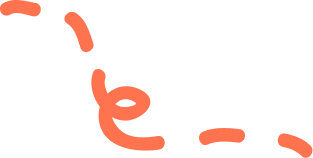
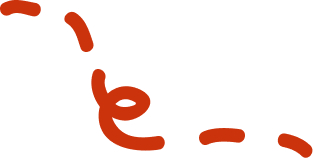
image split and slight animation

diff --git a/my-portfolio/src/dist/scss/Form.scss b/my-portfolio/src/dist/scss/Form.scss
@@ -2,7 +2,10 @@
 @import url("https://fonts.googleapis.com/css2?family=Inter:wght@200;300;400;500&display=swap");
 @import url('https://fonts.googleapis.com/css2?family=Antonio:wght@100;200;300;400;600;700&display=swap');
 
-
+.plane-container{
+display: flex;
+flex-direction: column;
+}
 .form-img{
       background-position: center;
     background-repeat: no-repeat;
@@ -37,11 +40,24 @@ margin-bottom: 2rem;
     flex-direction: column;
     align-content: center;
         align-items: center;;}
-
-    .message-plane{
-      margin-bottom: 3rem;
+.trail{
+        margin-bottom: 1rem;
    margin-top: 3rem;
-      width: 10rem;
+      width: 4rem;
+          transform: rotate(20deg);
+}
+    .message-plane{
+    margin-bottom: 2rem;
+    margin-left: 4rem;
+    width: 4rem;
+    animation-name: wave-animation;  /* Refers to the name of your @keyframes element below */
+  animation-duration: 2.5s;        /* Change to speed up or slow down */
+  animation-iteration-count: infinite;  /* Never stop waving :) */
+  transform-origin: 70% 70%;       /* Pivot around the bottom-left palm */
+  display: inline-block;
+    } .message-plane::after{
+      content: "click me";
+
     }
 .form {
 
@@ -58,7 +74,7 @@ margin-bottom: 2rem;
     font-size: 13px;
     line-height: 1.3rem;
     color: $text;
-    padding-right: 15.2rem;
+    padding-right: 14.2rem;
     margin-bottom: 8px;
 }
 .message {
@@ -67,12 +83,12 @@ margin-bottom: 2rem;
     font-size: 13px;
     line-height: 1.3rem;
     color: $text;
-    padding-right: 14.2rem;
+    padding-right: 13.2rem;
     margin-bottom: 8px;
 }
 .input1 {
   height: 2rem;
-  width: 18rem;
+  width: 16rem;
   opacity: 0.9;
   border: 1px solid $specialtext;
    border-radius: 12px;
@@ -83,7 +99,7 @@ margin-bottom: 2rem;
 .input2 {
   opacity: 0.9;
   height: 8rem;
-  width: 18rem;
+  width: 16rem;
  border: 1px solid $specialtext;
    border-radius: 12px;
     background: #cb330c17;

diff --git a/my-portfolio/src/components/paperPlane.js b/my-portfolio/src/components/paperPlane.js
@@ -1,19 +1,26 @@
-import paperplane from "../assets/Images/paperplanewithtrail.jpg";
+import paperplane from "../assets/Images/planejpg.jpg";
+import Trail from "../assets/Images/trail.jpg";
 
  const PaperPlane = (props) => {
 
 
  
   return (
-    <>
+    <div className="plane-container">
       {" "}
+      <img
+        className="trail"
+        alt="paper plane"
+        src={Trail}
+        onClick={props}
+      />
       <img
         className="message-plane"
         alt="paper plane"
         src={paperplane}
         onClick={props}
       />
-    </>
+    </div>
   );
 }
 

diff --git a/my-portfolio/src/components/Projects/DevelopmentProject.js b/my-portfolio/src/components/Projects/DevelopmentProject.js
@@ -60,7 +60,7 @@ const item = {
         className="Modal.show"
         onClick={() => setDisplayModal(!displayModal)}
       >
-        {/* <div class="modal-dialog">
+        <div class="modal-dialog">
           <p className="project-des">{props.projectDescription}</p>
           <div className="tag-container">
             <p className="tags">{props.tag1}</p>
@@ -88,7 +88,7 @@ const item = {
               </a>
             </div>
           </div>
-        </div>  */}
+        </div> 
         
       </motion.div>
     </motion.div>

diff --git a/my-portfolio/src/Sections/ContactSection.js b/my-portfolio/src/Sections/ContactSection.js
@@ -46,8 +46,8 @@ const [message, setMessage ] = useState(false);
       <div className="formpage" id="form" onClick={toggleMessage}>
         <h2 className="heading5">Contact me</h2>
         <p className="subheading5">
-          Click on the Paper Plane to send me a message, Looking foward to
-          hearing from you all!
+          Looking to work together? have a project in mind, go ahead and shoot me a message! 
+          Looking forward to hearing from you all!
         </p>
 
         {message ? <MyForm /> : <PaperPlane />}

diff --git a/my-portfolio/src/components/AboutMeNavigation.jsx b/my-portfolio/src/components/AboutMeNavigation.jsx
@@ -65,10 +65,7 @@ const AboutMeNavigation = () => {
         About Me
       </motion.h1>
 
-      <motion.ul
-        whileHover={{  color: "#cb330c" }}
-        className="aboutme-points"
-      >
+      <motion.ul whileHover={{ color: "#cb330c" }} className="aboutme-points">
         <Link to="/">
           {" "}
           <motion.il
@@ -95,7 +92,6 @@ const AboutMeNavigation = () => {
             Skill
           </motion.il>
         </Link>
-
       </motion.ul>
     </motion.div>
   );

diff --git a/my-portfolio/src/dist/scss/LandingSection.scss b/my-portfolio/src/dist/scss/LandingSection.scss
@@ -101,7 +101,7 @@ padding-left: 1rem;
 
 .hand{
 animation-name: wave-animation;  /* Refers to the name of your @keyframes element below */
-  animation-duration: 2.5s;        /* Change to speed up or slow down */
+  animation-duration: 5s;        /* Change to speed up or slow down */
   animation-iteration-count: infinite;  /* Never stop waving :) */
   transform-origin: 70% 70%;       /* Pivot around the bottom-left palm */
   display: inline-block;

diff --git a/my-portfolio/src/dist/scss/AboutMe.scss b/my-portfolio/src/dist/scss/AboutMe.scss
@@ -26,6 +26,9 @@
       padding: 15px 0px 0px 0px;
     color: $heading;
 }
+.heading-edit{
+     font-family: $font;
+}
 .aboutme-points{
       padding: 7px 1px;
     align-self: baseline;
